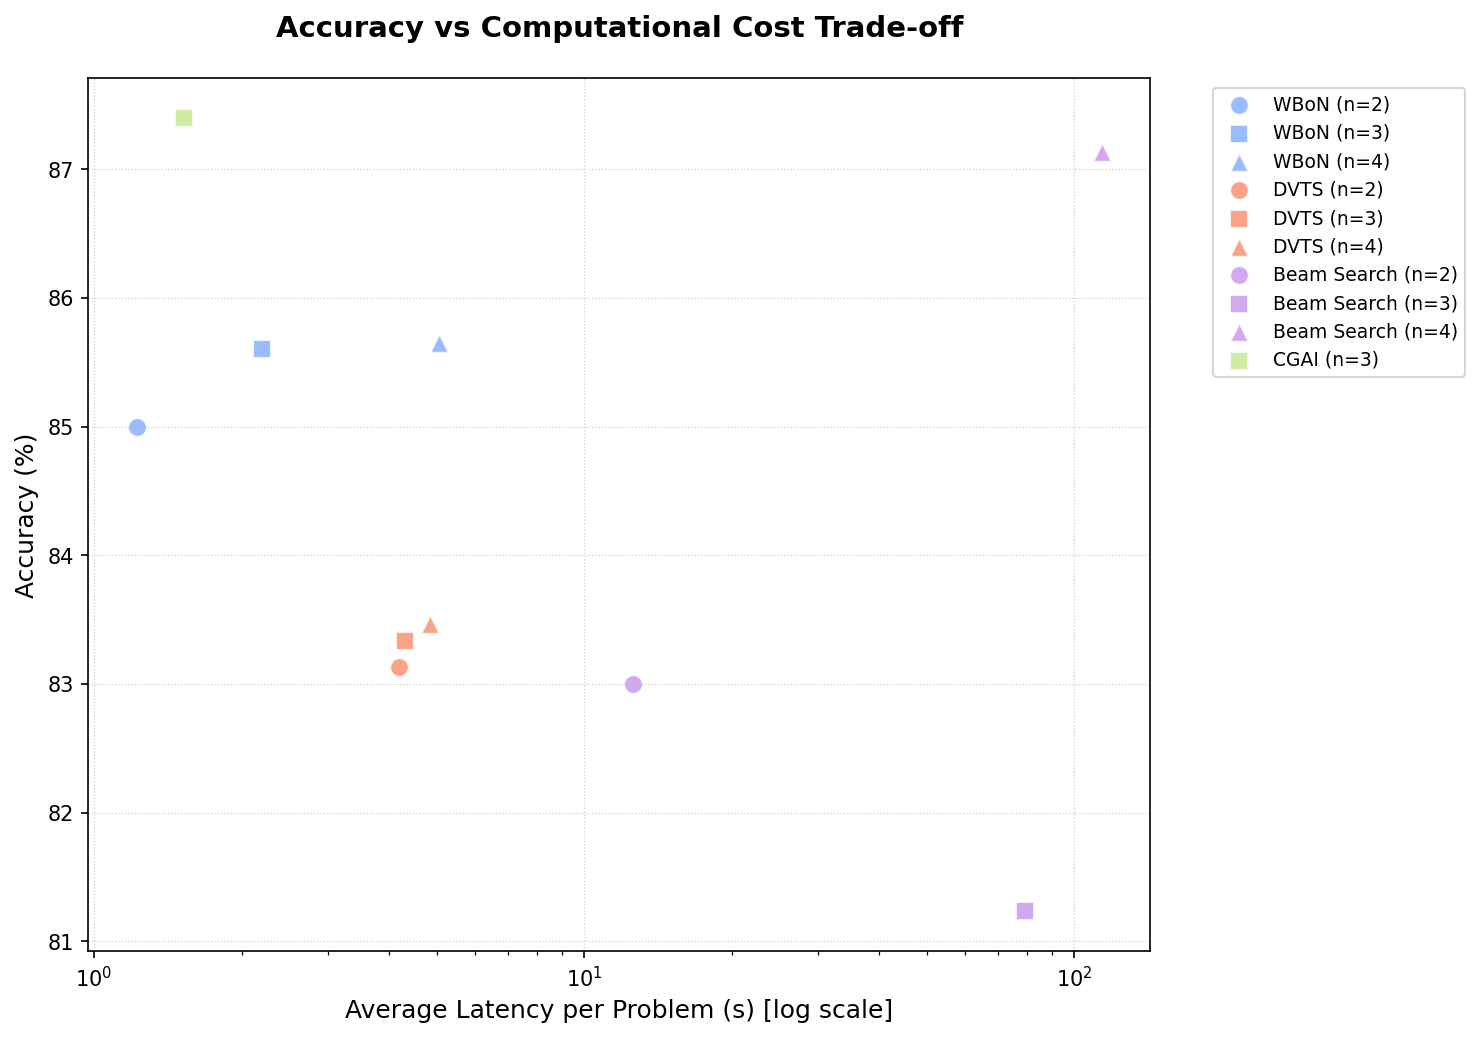
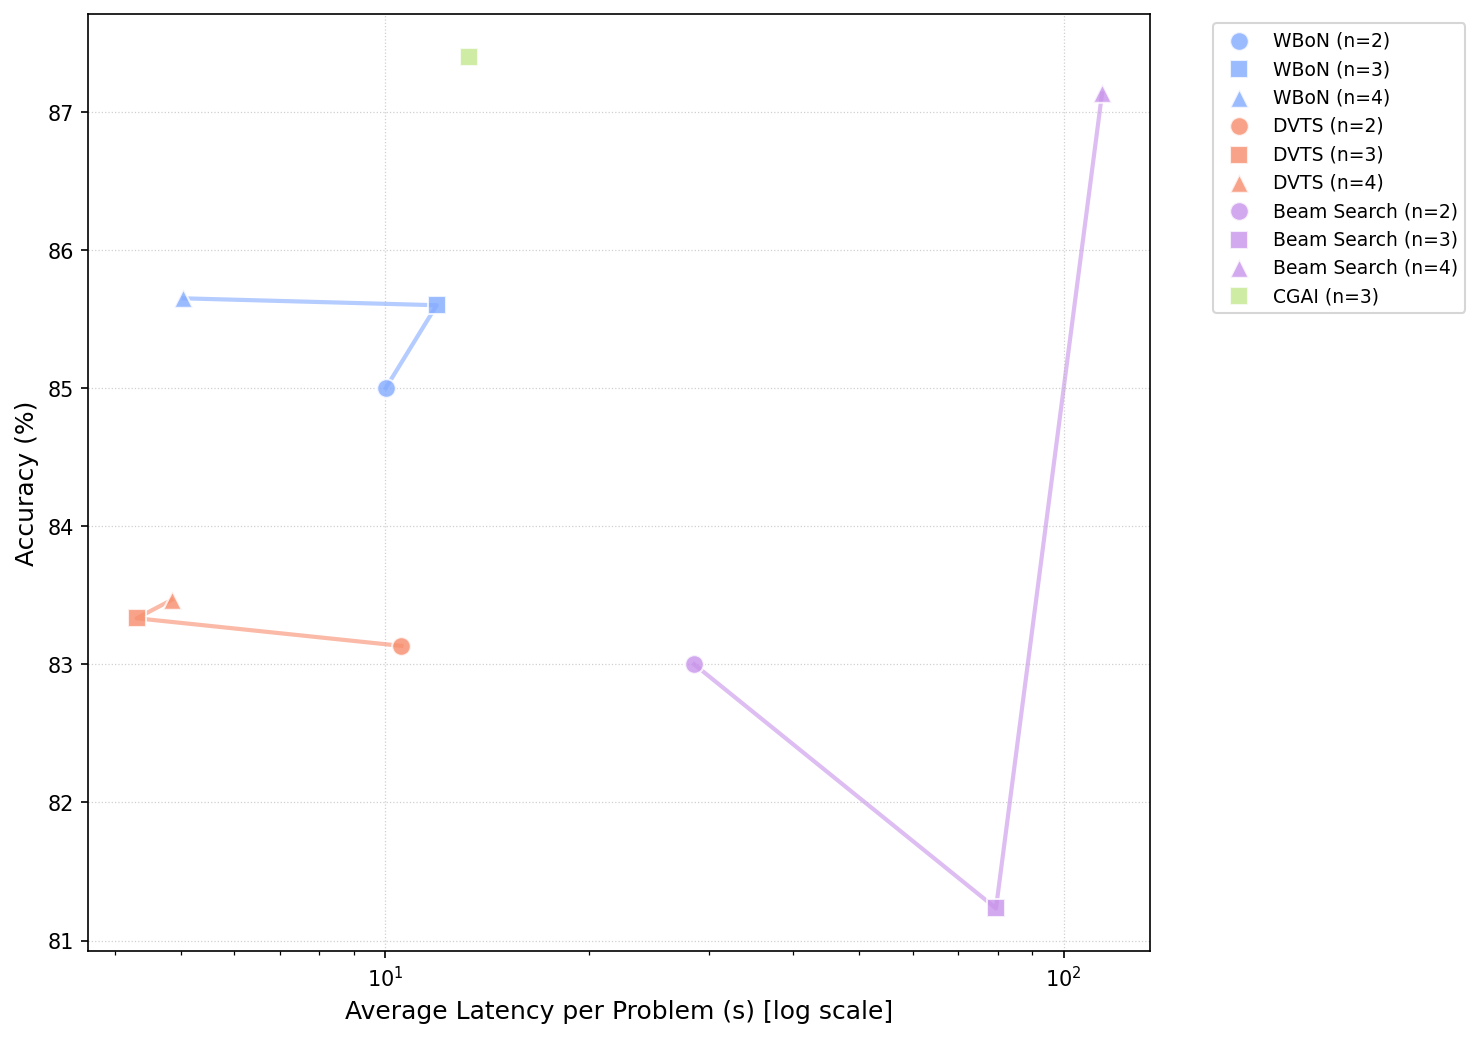
connect via line

diff --git a/src/sal_experiments/report/hyperparameter_scaling.py b/src/sal_experiments/report/hyperparameter_scaling.py
@@ -305,9 +305,8 @@ def plot_accuracy_vs_latency(
     for idx, (method, items) in enumerate(grouped.items()):
         color = color_palette.get(method, fallback_cycle[idx % len(fallback_cycle)])
 
-        accuracies = []
-        latencies = []
-        n_values = []
+        # Collect data for this method to draw connecting lines
+        method_data = []
 
         for item in items:
             if item.runtimes is None:
@@ -325,36 +324,43 @@ def plot_accuracy_vs_latency(
             ]
             latency = np.mean(latencies_per_problem)
 
-            accuracies.append(acc)
-            latencies.append(latency)
-            n_values.append(_numeric_to_n(_parse_n_to_numeric(item.n)))
-            all_points.append(
-                (latency, acc, method, _numeric_to_n(_parse_n_to_numeric(item.n)))
+            n_value = _numeric_to_n(_parse_n_to_numeric(item.n))
+            marker = marker_map.get(n_value, "D")
+
+            # Plot scatter points
+            ax.scatter(
+                latency,
+                acc,
+                color=color,
+                marker=marker,
+                s=80,
+                alpha=0.8,
+                label=f"{method} (n={n_value})",
+                edgecolors="white",
+                linewidth=1,
+                zorder=2,  # Above the lines
             )
 
-        if not accuracies:  # Skip if no valid data
-            continue
+            # Store data for connecting lines
+            method_data.append((n_value, latency, acc))
+            all_points.append((latency, acc, method, n_value))
 
-        # Plot points for each n value
-        for n in set(n_values):
-            n_mask = [nv == n for nv in n_values]
-            n_accs = [acc for acc, mask in zip(accuracies, n_mask) if mask]
-            n_lats = [lat for lat, mask in zip(latencies, n_mask) if mask]
+        # Connect points of the same method with lines
+        if len(method_data) > 1:
+            # Sort by n value for proper line connection
+            method_data.sort(key=lambda x: x[0])
+            x_coords = [point[1] for point in method_data]  # latency
+            y_coords = [point[2] for point in method_data]  # accuracy
 
-            if n_accs:
-                marker = marker_map.get(n, "D")
-
-                ax.scatter(
-                    n_lats,
-                    n_accs,
-                    color=color,
-                    marker=marker,
-                    s=80,
-                    alpha=0.8,
-                    label=f"{method} (n={n})",
-                    edgecolors="white",
-                    linewidth=1,
-                )
+            ax.plot(
+                x_coords,
+                y_coords,
+                color=color,
+                linestyle="-",
+                alpha=0.6,
+                linewidth=2,
+                zorder=1,  # Behind the points
+            )
 
     # Customize axes
     ax.set_xlabel("Average Latency per Problem (s)", fontsize=12)
@@ -371,13 +377,6 @@ def plot_accuracy_vs_latency(
 
     # Create legend
     ax.legend(bbox_to_anchor=(1.05, 1), loc="upper left", frameon=True, fontsize=9)
-
-    plt.title(
-        "Accuracy vs Computational Cost Trade-off",
-        fontsize=14,
-        fontweight="bold",
-        pad=20,
-    )
     plt.tight_layout()
 
     # Save the plot
